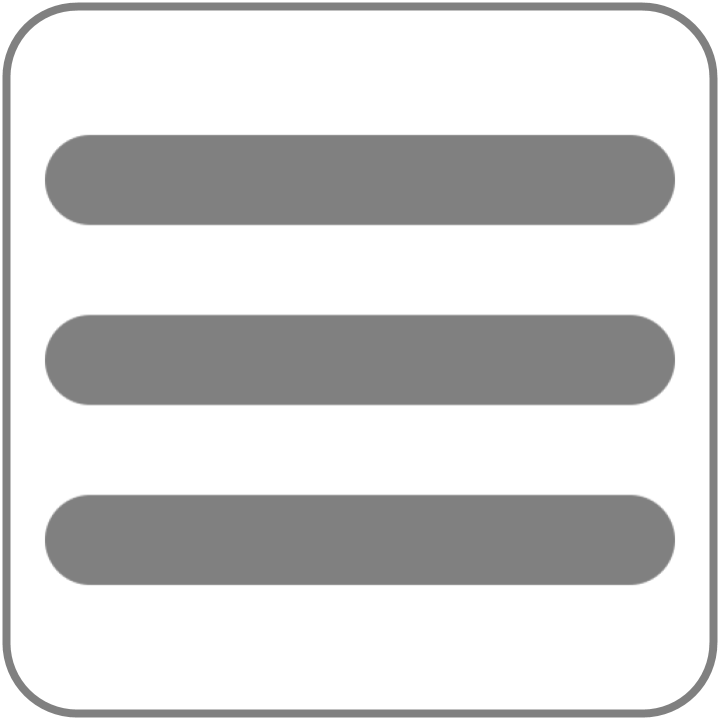
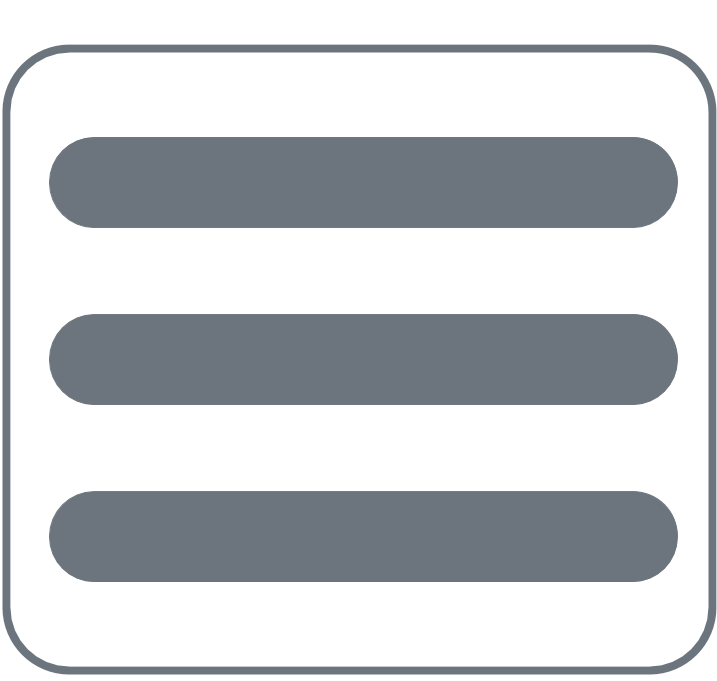
Worked on NavBar

diff --git a/mayor-app/src/components/Navigation.js b/mayor-app/src/components/Navigation.js
@@ -12,7 +12,7 @@ const Navigation = (props) => {
             <nav className="NavBar">
                 {/*Links to homepage when on another page - can play around with styling*/}
                 {/*<Link to="/" className = "NavBarLink">Nashville Food</Link>*/}
-                <a className="NavBarLink" href={"/"}>width is {windowWidth}</a>
+                <a className="NavBarLink" href={"/"}>Nashville Food</a>
                 <NavBarType width = {windowWidth} />
             </nav>
         </div>
@@ -57,7 +57,7 @@ function NavBarExpanded(){
 function NavBarCondensed(){
     return (
         <div className="NavBar-Condensed">
-            <img src={menuIcon} />
+            <img src={menuIcon} className="MenuIcon"/>
         </div>
     );
 }

diff --git a/mayor-app/src/App.css b/mayor-app/src/App.css
@@ -230,6 +230,14 @@ h4 {
   margin:auto;
 }
 
+.MenuIcon {
+  width: 50px;
+  height: 30px;
+  float: right;
+}
+
+
+
 @media (min-width: 768px) {
   .col-2 {
       -ms-flex: 0 0 33.333333%;
